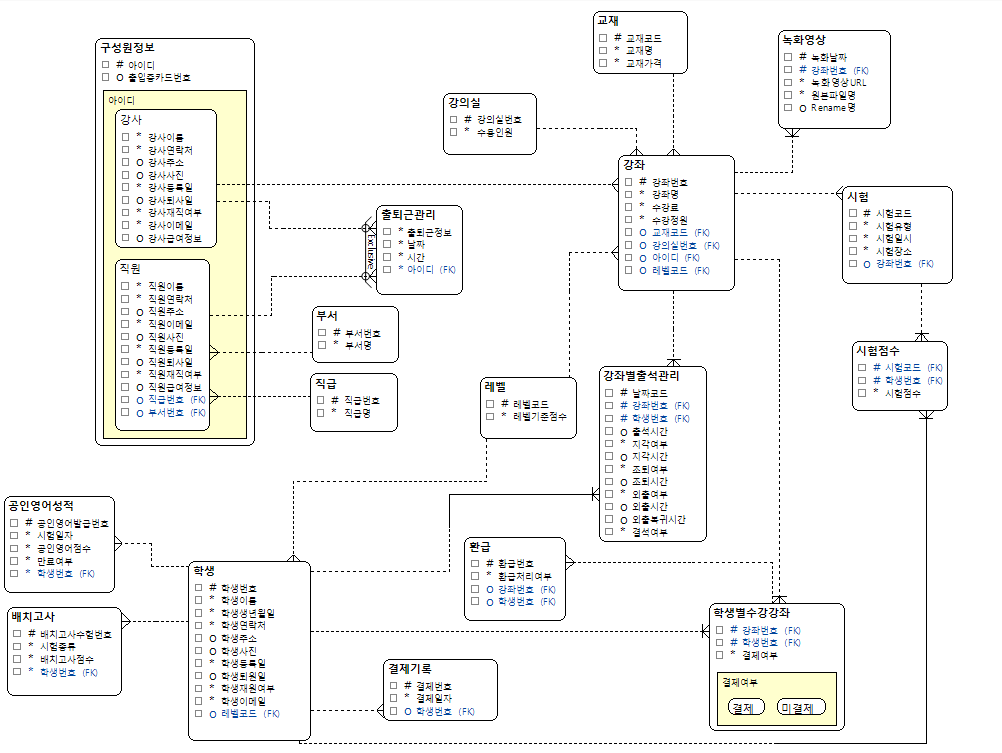
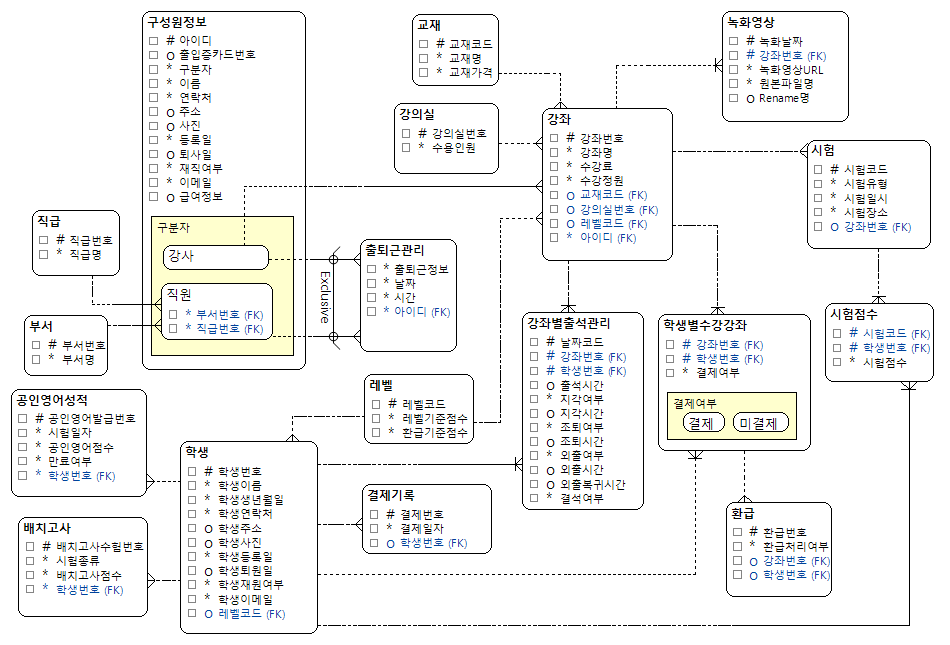
수정
ERD CLOUD 삭제
논리모델링 사진 교체
DDL comment 수정

diff --git a/README.md b/README.md
@@ -227,15 +227,15 @@
      COMMENT '아이디',
         `ide_key` CHAR(1) NOT NULL COMMENT '강사, 직원 구분자',
         `idcard_no`    SMALLINT COMMENT '출입증카드번호',
-        `name`    VARCHAR(255) NOT NULL COMMENT '강사이름',
-        `phone`    VARCHAR(255) NOT NULL COMMENT '강사연락처',
-        `address`    VARCHAR(255) NOT NULL COMMENT '강사주소',
-        `pic`    MEDIUMBLOB NOT NULL COMMENT '강사사진',
-        `enroll_date`    DATE NOT NULL COMMENT '강사등록일',
-        `resign_date`    DATE COMMENT '강사퇴사일',
-        `status`    CHAR(1) NOT NULL COMMENT '강사재직여부',
-        `email`    VARCHAR(255) NOT NULL COMMENT '강사이메일',
-        `salary`    INT NOT NULL COMMENT '강사급여정보',
+        `name`    VARCHAR(255) NOT NULL COMMENT '이름',
+        `phone`    VARCHAR(255) NOT NULL COMMENT '연락처',
+        `address`    VARCHAR(255) NOT NULL COMMENT '주소',
+        `pic`    MEDIUMBLOB NOT NULL COMMENT '사진',
+        `enroll_date`    DATE NOT NULL COMMENT '등록일',
+        `resign_date`    DATE COMMENT '퇴사일',
+        `status`    CHAR(1) NOT NULL COMMENT '재직여부',
+        `email`    VARCHAR(255) NOT NULL COMMENT '이메일',
+        `salary`    INT NOT NULL COMMENT '급여정보',
         `job_id`    SMALLINT COMMENT '직급번호',
         `dept_id`    SMALLINT COMMENT '부서번호',
      PRIMARY KEY ( `id_no` )
